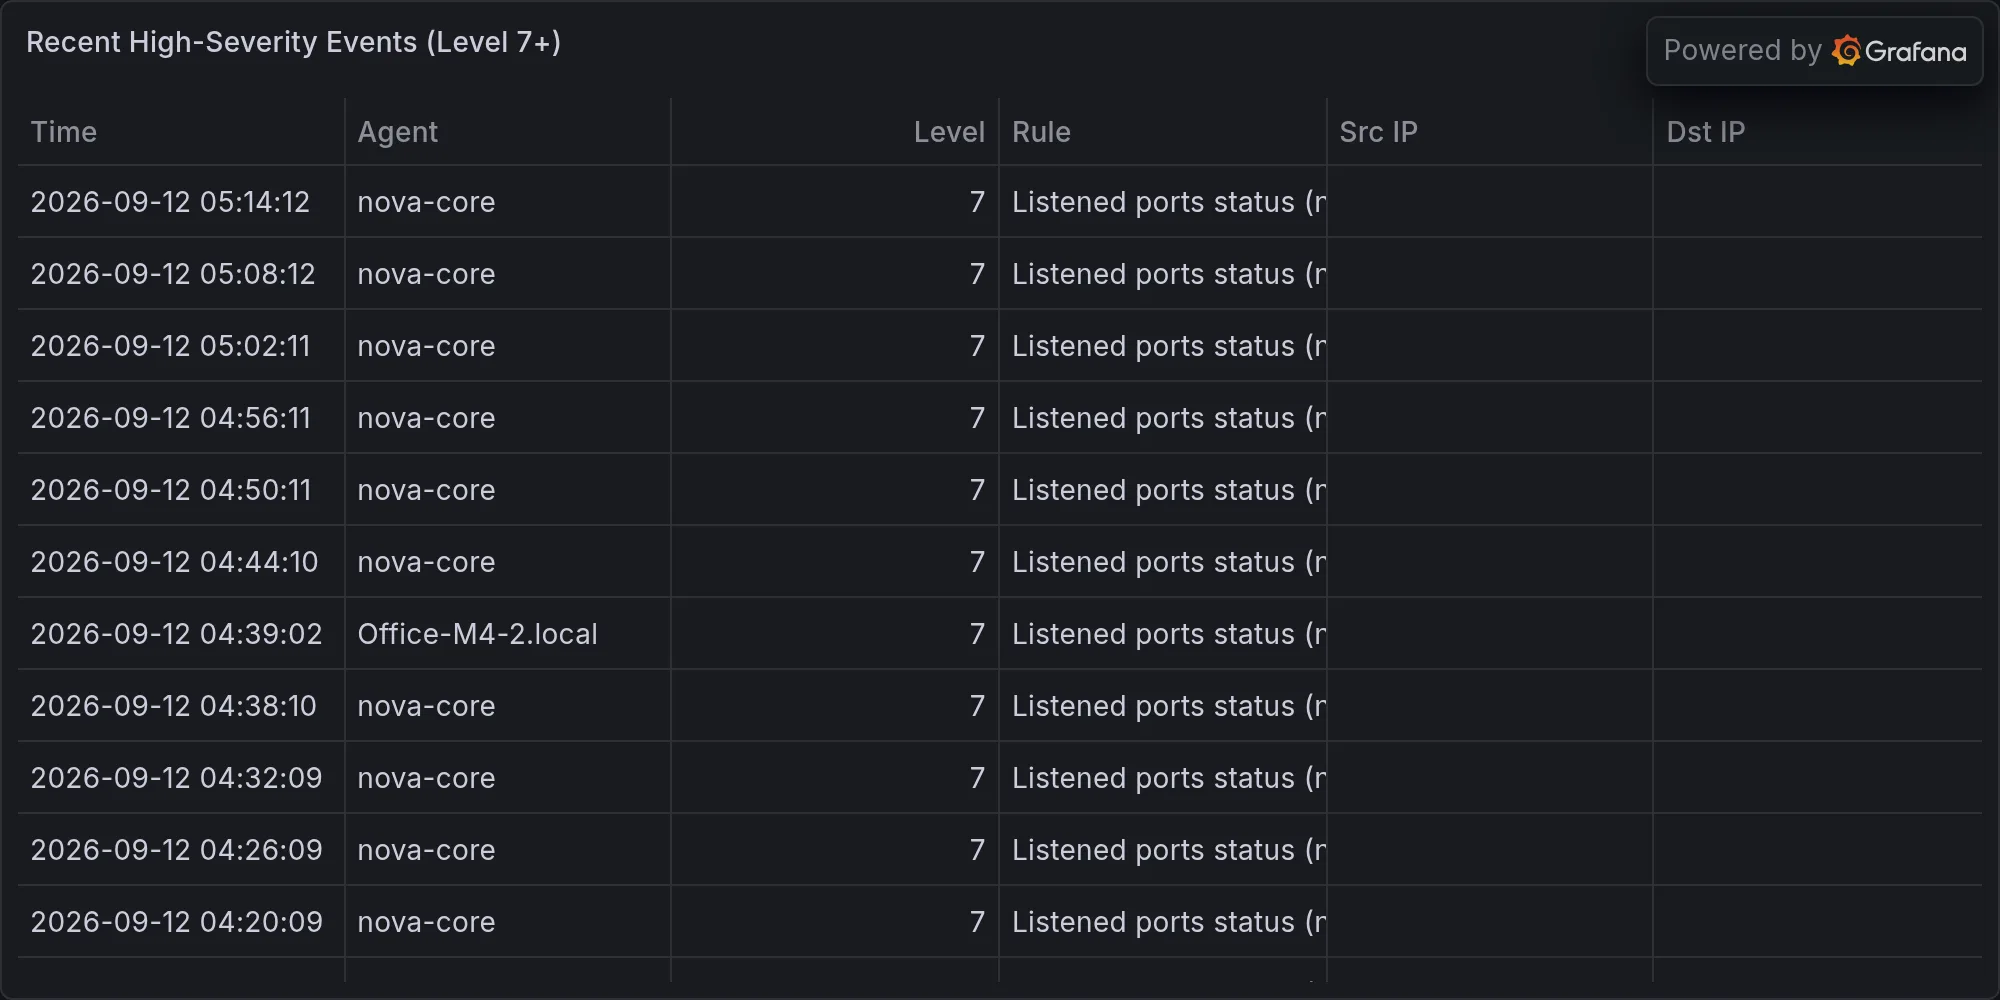
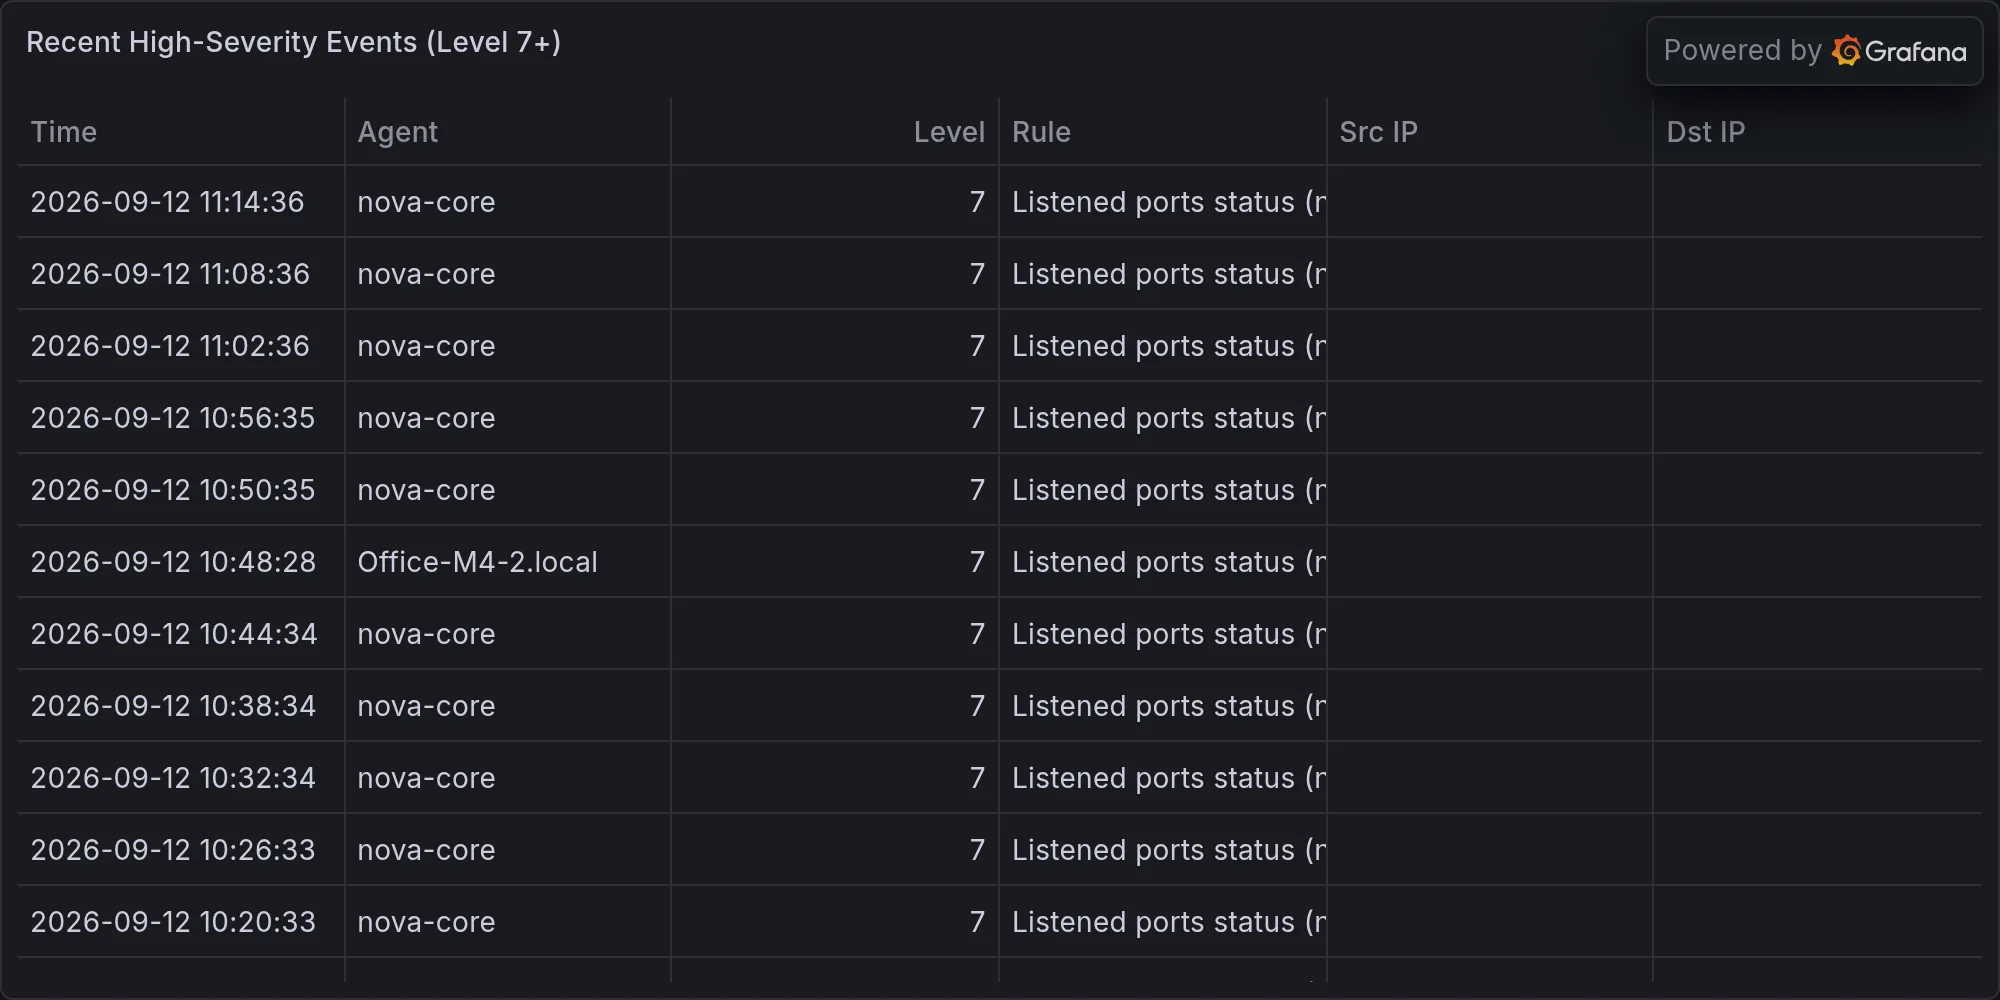
security: 2026-09-12 — **CISA Adds 5 Actively Exploited Artifactory, Scre

diff --git a/content/operations/2026-09-12-cisa-adds-5-actively-exploited-artifactory-screenconnect-rou.md b/content/operations/2026-09-12-cisa-adds-5-actively-exploited-artifactory-screenconnect-rou.md
@@ -1,0 +1,57 @@
+---
+title: "🛡 **CISA Adds 5 Actively Exploited Artifactory, ScreenConnect, RouterOS Flaws to KEV**"
+date: 2026-09-12T11:16:37-07:00
+draft: false
+categories: ["operations"]
+tags: ["breaking-alert", "the-hacker-news-cisa-adds-5-actively-exp", "security"]
+description: "BREAKING: The Hacker News: CISA Adds 5 Actively Exploited Artifactory, ScreenConnect, and RouterOS Flaws to KE"
+cover:
+  image: "/images/operations/2026-09-12-cisa-adds-5-actively-exploited-artifactory-screenconnect-rou.webp"
+  alt: "**CISA Adds 5 Actively Exploited Artifactory, ScreenConnect, RouterOS Flaws to KEV**"
+  relative: false
+---
+
+*Published Saturday, September 12, 2026 at 11:16 AM PT*
+
+![**CISA Adds 5 Actively Exploited Artifactory, ScreenConnect, RouterOS Flaws to KEV**](/images/operations/2026-09-12-cisa-adds-5-actively-exploited-artifactory-screenconnect-rou.webp)
+
+BLUF: CISA has added 5 actively exploited vulnerabilities affecting Artifactory, ScreenConnect, and RouterOS to its Known Exploited Vulnerabilities (KEV) catalog. Organizations running these products should assume exploitation is underway and patch immediately.
+
+---
+
+**DETAILS**
+- CISA formally added 5 flaws to the KEV catalog, confirming active exploitation in the wild
+- Affected products: JFrog Artifactory, ConnectWise ScreenConnect, and Mikrotik RouterOS
+- Attack activity is ongoing — these are not theoretical risks
+- Flaws span remote code execution and authentication bypass categories
+- Multiple attack groups are actively scanning for and exploiting these flaws
+
+---
+
+**IMPACT**
+- **Artifactory users**: Risk of credential theft, artifact tampering, supply-chain compromise if repositories are internet-exposed
+- **ScreenConnect deployments**: Remote access tools are high-value targets; full environment compromise likely if exploited
+- **RouterOS instances**: Perimeter devices and remote management systems are at immediate risk of takeover
+- Scope: Any instance accessible to attackers or on networks where lateral movement is possible
+
+---
+
+**RECOMMENDED ACTIONS**
+1. **Immediate**: Query your asset inventory for Artifactory, ScreenConnect, RouterOS instances. Identify public-facing, internet-accessible, or edge-network deployments.
+2. **Within 24 hours**: Apply CISA-recommended mitigations or patches. Check vendor security advisories for version-specific guidance.
+3. **Monitor**: Watch for unauthorized access, credential leaks, or unusual artifact/configuration changes in Artifactory; inspect ScreenConnect session logs for anomalous RDP/SSH tunneling; review RouterOS firewall logs for unexpected management access.
+4. **Incident response**: Test your ability to isolate and forensically preserve these systems if compromise is suspected.
+
+---
+
+**SOURCES**
+- CISA Known Exploited Vulnerabilities (KEV) catalog
+- The Hacker News reporting
+
+*Status: Active exploitation confirmed by CISA. Specific CVE numbers and technical details pending full KEV release.*
+
+---
+
+**Recent high-severity events at publish time:**
+
+![Recent high-severity events](/images/operations/2026-09-12-breaking-alert-posture.webp)
